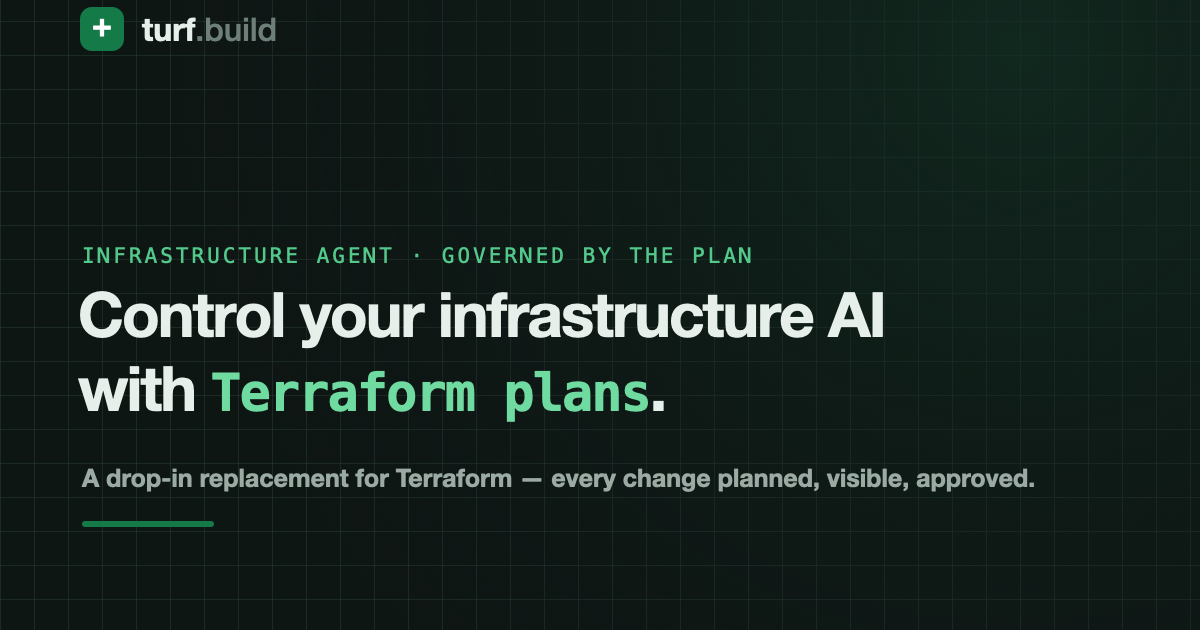
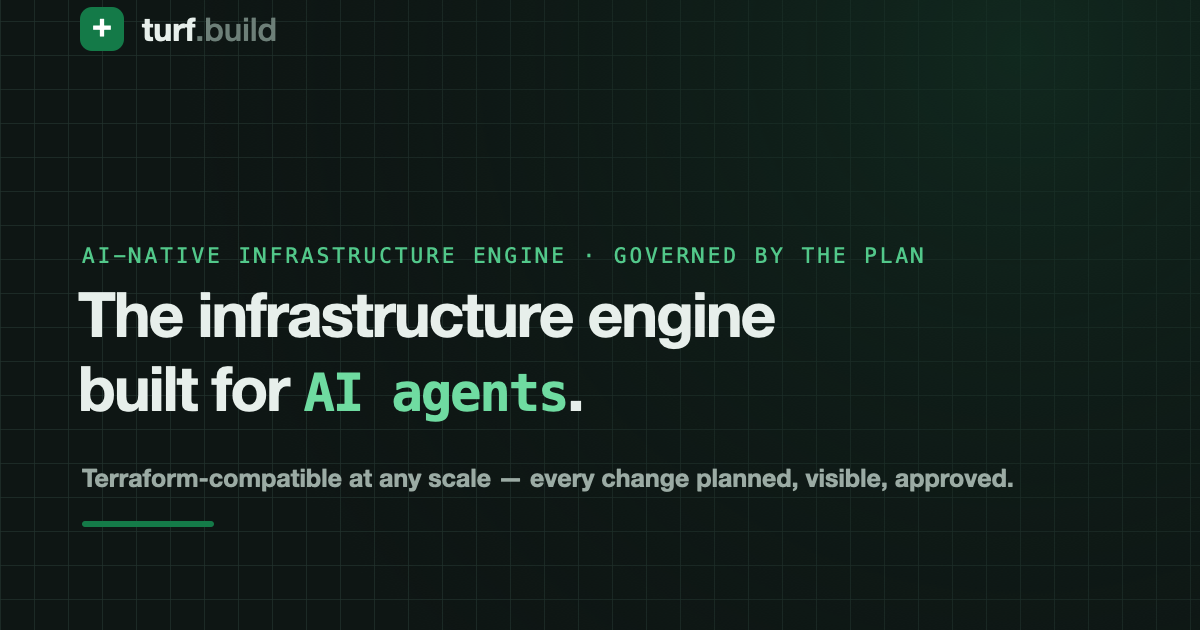
Reposition around five use cases: the infrastructure engine built for AI agents
New hero headline, with the highlighted phrase rotating through the pillars
(AI agents / 10x scale / datacenters / data products; static under
prefers-reduced-motion). A new UseCases section replaces Solutions and carries
all five messages: scale, datacenter automation, autonomous products, governed
AI operations, and agentic MCP-native IaC. The old Solutions cards are
redistributed — Kubernetes stacks and day-2 fold into the datacenter card, and
TACOs moves to a section on the compatibility page.

"Drop-in replacement" no longer leads anywhere: compatibility is now a
supporting message phrased as Terraform-compatible / runs your existing
configurations unchanged. Meta title, description, and the OG card follow.

Nav renames Product to How it works and Solutions to Use cases; UseCases keeps
an empty #solutions anchor so old inbound links still land.

Changed region(s): [[0.0617, 0.4524, 0.74, 0.6635], [0.0617, 0.7238, 0.8633, 0.7841], [0.0617, 0.3921, 0.7708, 0.4222]]

diff --git a/CLAUDE.md b/CLAUDE.md
@@ -4,10 +4,10 @@ This file provides guidance to Claude Code (claude.ai/code) when working with co
 
 ## What this is
 
-The product marketing site for **Turf** (turf.build) — a drop-in replacement for Terraform that lets
-an AI agent operate infrastructure, governed by the plan. Astro static site, deployed to GitHub Pages
-at the apex domain via `.github/workflows/deploy.yml` on every push to `main`. There is no CMS, no
-backend, no test suite.
+The product marketing site for **Turf** (turf.build) — the infrastructure engine built for AI
+agents: Terraform-compatible, MCP-native, governed by the plan. Astro static site, deployed to
+GitHub Pages at the apex domain via `.github/workflows/deploy.yml` on every push to `main`. There
+is no CMS, no backend, no test suite.
 
 ## Commands
 
@@ -44,11 +44,16 @@ Titles are Turf-leading (`Turf — …`). `TopNav` and `Footer` are rendered by 
 render body content only.
 
 **Pages compose components; the home page composes them all.** `pages/index.astro` is nothing but an
-ordered list of section components — Hero, FearStrip, HowItWorks, CompatibilityTeaser, Solutions,
-Pillars, Flexibility, Partner. Those components carry the home-page anchor ids (`#product` on
-HowItWorks, `#solutions` on Solutions, `#compatibility` on CompatibilityTeaser, `#get-started` on
-Footer); cross-page links use a leading slash (`/#product`) so they work from subpages. Subpages
-follow a fixed shape: `.subhero` → alternating `.section` / `.section alt` → `.prose` or a grid.
+ordered list of section components — Hero, UseCases, FearStrip, HowItWorks, CompatibilityTeaser,
+Pillars, Flexibility, Partner. Those components carry the home-page anchor ids (`#use-cases` on
+UseCases, `#product` on HowItWorks, `#compatibility` on CompatibilityTeaser, `#get-started` on
+Footer); cross-page links use a leading slash (`/#product`) so they work from subpages. UseCases
+also carries an empty legacy anchor span `#solutions` (it replaced the Solutions section) so
+pre-2026-08 inbound links still land — don't remove it. A standalone `/how-it-works` page was
+tried and dropped (too thin); the loop lives on home. The home band striping alternates
+`band`/`band alt` in the order above — inserting or removing a section means re-checking the
+alternation. Subpages follow a fixed shape: `.subhero` → alternating `.section` / `.section alt`
+→ `.prose` or a grid.
 
 **Client JS is deliberately near-zero.** The only script is the hero's plan-convergence animation in
 `components/Hero.astro` — an inline timeline of `setTimeout` steps that mutate classes/text, with a
@@ -79,15 +84,29 @@ Never write "the Terraform Registry" — its ToS restricts non-Terraform use; sa
   site prefers showing `cd path/to/config && turf up`.
 - Don't promise undo/rollback — Turf doesn't support it.
 - Say "Local AI models and GPU clouds", not "local models". Say "OPA policy checks" for the policy example.
-- Unshipped capabilities are framed as "coming soon", never as gaps or absences.
+- Unshipped capabilities are framed as "coming soon", never as gaps or absences — **at the
+  capability level** (the Pillars grid, the compatibility matrix). The five *use-case narratives*
+  are deliberately written present-tense with no shipped/coming-soon distinction (decided
+  2026-08-25; the site is forward-looking because development is fast).
+- **Never name or describe Restate** or any internal scale-out mechanism (virtual objects,
+  workflows, journals). Scale claims use capability framing: "the cloud API is the ceiling",
+  "thousands of resources per stack", "durable execution".
+- **"Drop-in replacement" never leads** (de-emphasized 2026-08-25; greenfield-first). Compatibility
+  is a supporting message: say "Terraform-compatible" or "runs your existing configurations — HCL,
+  modules, providers — unchanged". The provenance line ("independent product built on the OpenTofu
+  framework") stays.
 
 **Tone.** No lean-startup vocabulary in public copy — in particular avoid "pain" / "pain point". Do not
 imply existing design partners, customers, or a team the company doesn't have. Page `<title>`s are
 Turf-leading (`Turf — …`).
 
-**Locked messaging.** The hero headline "Control your infrastructure AI with Terraform plans." was
-chosen after extended iteration; the whole site's positioning (governance/visibility over
-"AI in control") hangs off it. Treat it as fixed unless the user reopens it.
+**Locked messaging.** The hero headline is "**The infrastructure engine built for AI agents.**"
+(adopted 2026-08-25, superseding "Control your infrastructure AI with Terraform plans."). The site
+carries **five positioning pillars** — Terraform at 10x scale · datacenter automation · autonomous
+products · governed AI operations · agentic IaC/MCP-native — rendered as the home UseCases section.
+The internal source of truth for all of this (messages, audiences, proof points, approved phrases,
+what not to say) is the touchstone doc at `headquarters/marketing/use-cases.md` — start there for
+any copy round. Treat the headline as fixed unless the user reopens it.
 
 ## Constraints that are easy to violate
 

diff --git a/README.md b/README.md
@@ -1,7 +1,7 @@
 # turf.build
 
-The product marketing site for **Turf** — a drop-in replacement for Terraform that lets an AI
-agent operate your infrastructure, governed by the plan.
+The product marketing site for **Turf** — the infrastructure engine built for AI agents:
+Terraform-compatible, MCP-native, governed by the plan.
 
 Built with [Astro](https://astro.build), deployed to **GitHub Pages** at the apex domain
 `turf.build`. Ships as a static site with zero client JS except one small inlined hero animation.
